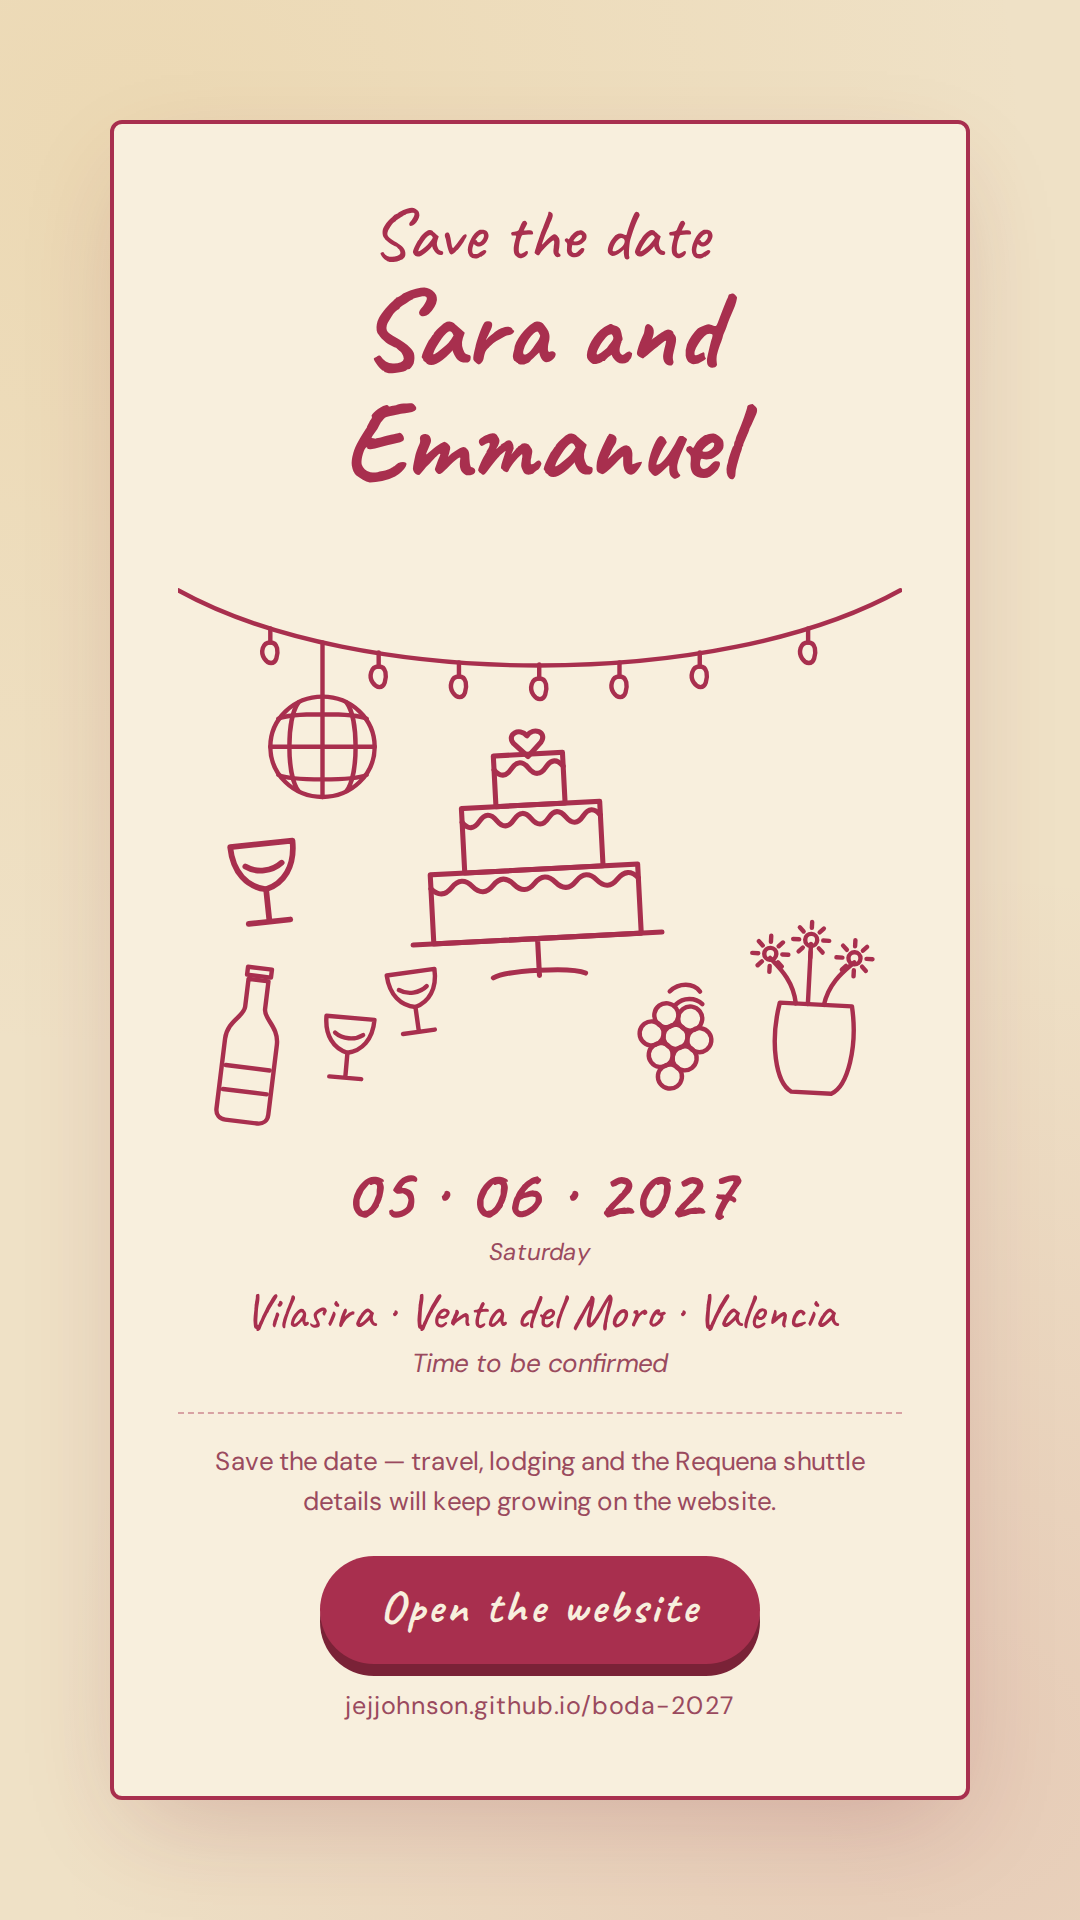
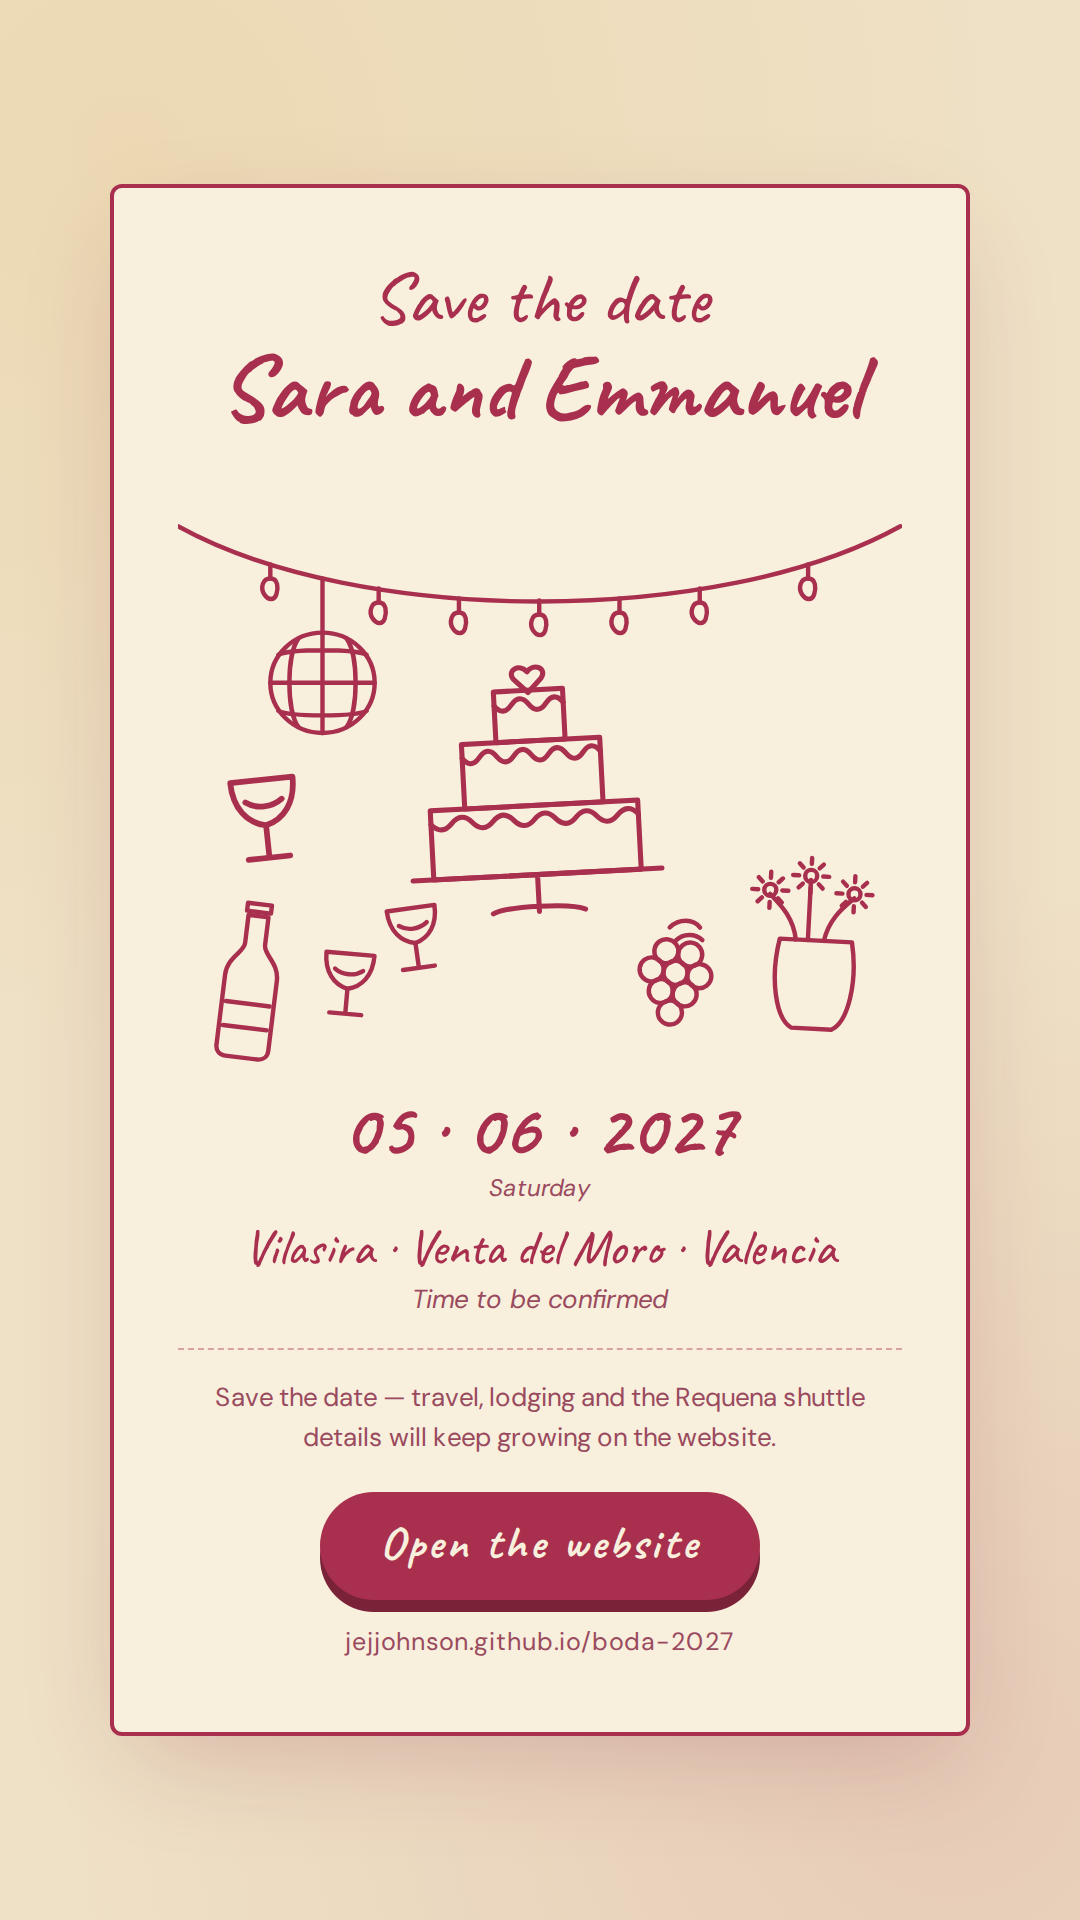
Save-the-date: nombres en una sola línea en ES y EN
Claude-Session: https://claude.ai/code/session_01E14Xrki4y1KSsmxzGob9Yb

diff --git a/save-the-date/candidatos/exploraciones/huecas-monolinea.html b/save-the-date/candidatos/exploraciones/huecas-monolinea.html
@@ -53,7 +53,7 @@ span[data-lang]{display:none} body.es span[data-lang="es"],body.en span[data-lan
 .vB{--grape:#A82F4E;--grape-dark:#7A2237;--acc:var(--grape);--cream:#F8EFDD;--paper:#EFE1C6;
     --ink:#7A2237;--sub:#9A4A5E;--line:rgba(168,47,78,.4);--shadow:rgba(122,34,55,.22)}
 .vB .hand-top{font-family:"Caveat",cursive;font-weight:500;font-size:clamp(28px,8vw,36px);line-height:1;text-align:center;color:var(--grape)}
-.vB .hand-names{font-family:"Caveat",cursive;font-weight:700;font-size:clamp(42px,12vw,56px);line-height:1;text-align:center;color:var(--grape);margin-top:2px}
+.vB .hand-names{font-family:"Caveat",cursive;font-weight:700;font-size:clamp(32px,10vw,46px);line-height:1;text-align:center;color:var(--grape);margin-top:4px;white-space:nowrap}
 .vB .scene{display:block;width:100%;height:auto;margin:6px 0 0}
 .vB .hand-date{font-family:"Caveat",cursive;font-weight:700;font-size:clamp(30px,8.5vw,38px);line-height:1;text-align:center;color:var(--grape);margin-top:10px;letter-spacing:.02em}
 .vB .hand-date small{display:block;font-family:"DM Sans",sans-serif;font-style:italic;font-weight:400;font-size:12px;letter-spacing:0;color:var(--sub);margin-top:4px}

diff --git a/save-the-date/candidatos/04-monolinea/index.html b/save-the-date/candidatos/04-monolinea/index.html
@@ -17,7 +17,7 @@
   body{background:var(--paper);color:var(--ink);
     background-image:radial-gradient(circle at 12% 8%,rgba(217,164,65,.14),transparent 45%),radial-gradient(circle at 88% 92%,rgba(168,47,78,.12),transparent 45%)}
   .hand-top{font-family:"Caveat",cursive;font-weight:500;font-size:clamp(28px,8vw,36px);line-height:1;text-align:center;color:var(--grape)}
-  .hand-names{font-family:"Caveat",cursive;font-weight:700;font-size:clamp(42px,12vw,56px);line-height:1;text-align:center;color:var(--grape);margin-top:2px}
+  .hand-names{font-family:"Caveat",cursive;font-weight:700;font-size:clamp(32px,10vw,46px);line-height:1;text-align:center;color:var(--grape);margin-top:4px;white-space:nowrap}
   .scene{display:block;width:100%;height:auto;margin:6px 0 0}
   .hand-date{font-family:"Caveat",cursive;font-weight:700;font-size:clamp(30px,8.5vw,38px);line-height:1;text-align:center;color:var(--grape);margin-top:10px;letter-spacing:.02em}
   .hand-date small{display:block;font-family:"DM Sans",sans-serif;font-style:italic;font-weight:400;font-size:12px;letter-spacing:0;color:var(--sub);margin-top:4px}

diff --git a/save-the-date/index.html b/save-the-date/index.html
@@ -17,7 +17,7 @@
   body{background:var(--paper);color:var(--ink);
     background-image:radial-gradient(circle at 12% 8%,rgba(217,164,65,.14),transparent 45%),radial-gradient(circle at 88% 92%,rgba(168,47,78,.12),transparent 45%)}
   .hand-top{font-family:"Caveat",cursive;font-weight:500;font-size:clamp(28px,8vw,36px);line-height:1;text-align:center;color:var(--grape)}
-  .hand-names{font-family:"Caveat",cursive;font-weight:700;font-size:clamp(42px,12vw,56px);line-height:1;text-align:center;color:var(--grape);margin-top:2px}
+  .hand-names{font-family:"Caveat",cursive;font-weight:700;font-size:clamp(32px,10vw,46px);line-height:1;text-align:center;color:var(--grape);margin-top:4px;white-space:nowrap}
   .scene{display:block;width:100%;height:auto;margin:6px 0 0}
   .hand-date{font-family:"Caveat",cursive;font-weight:700;font-size:clamp(30px,8.5vw,38px);line-height:1;text-align:center;color:var(--grape);margin-top:10px;letter-spacing:.02em}
   .hand-date small{display:block;font-family:"DM Sans",sans-serif;font-style:italic;font-weight:400;font-size:12px;letter-spacing:0;color:var(--sub);margin-top:4px}
